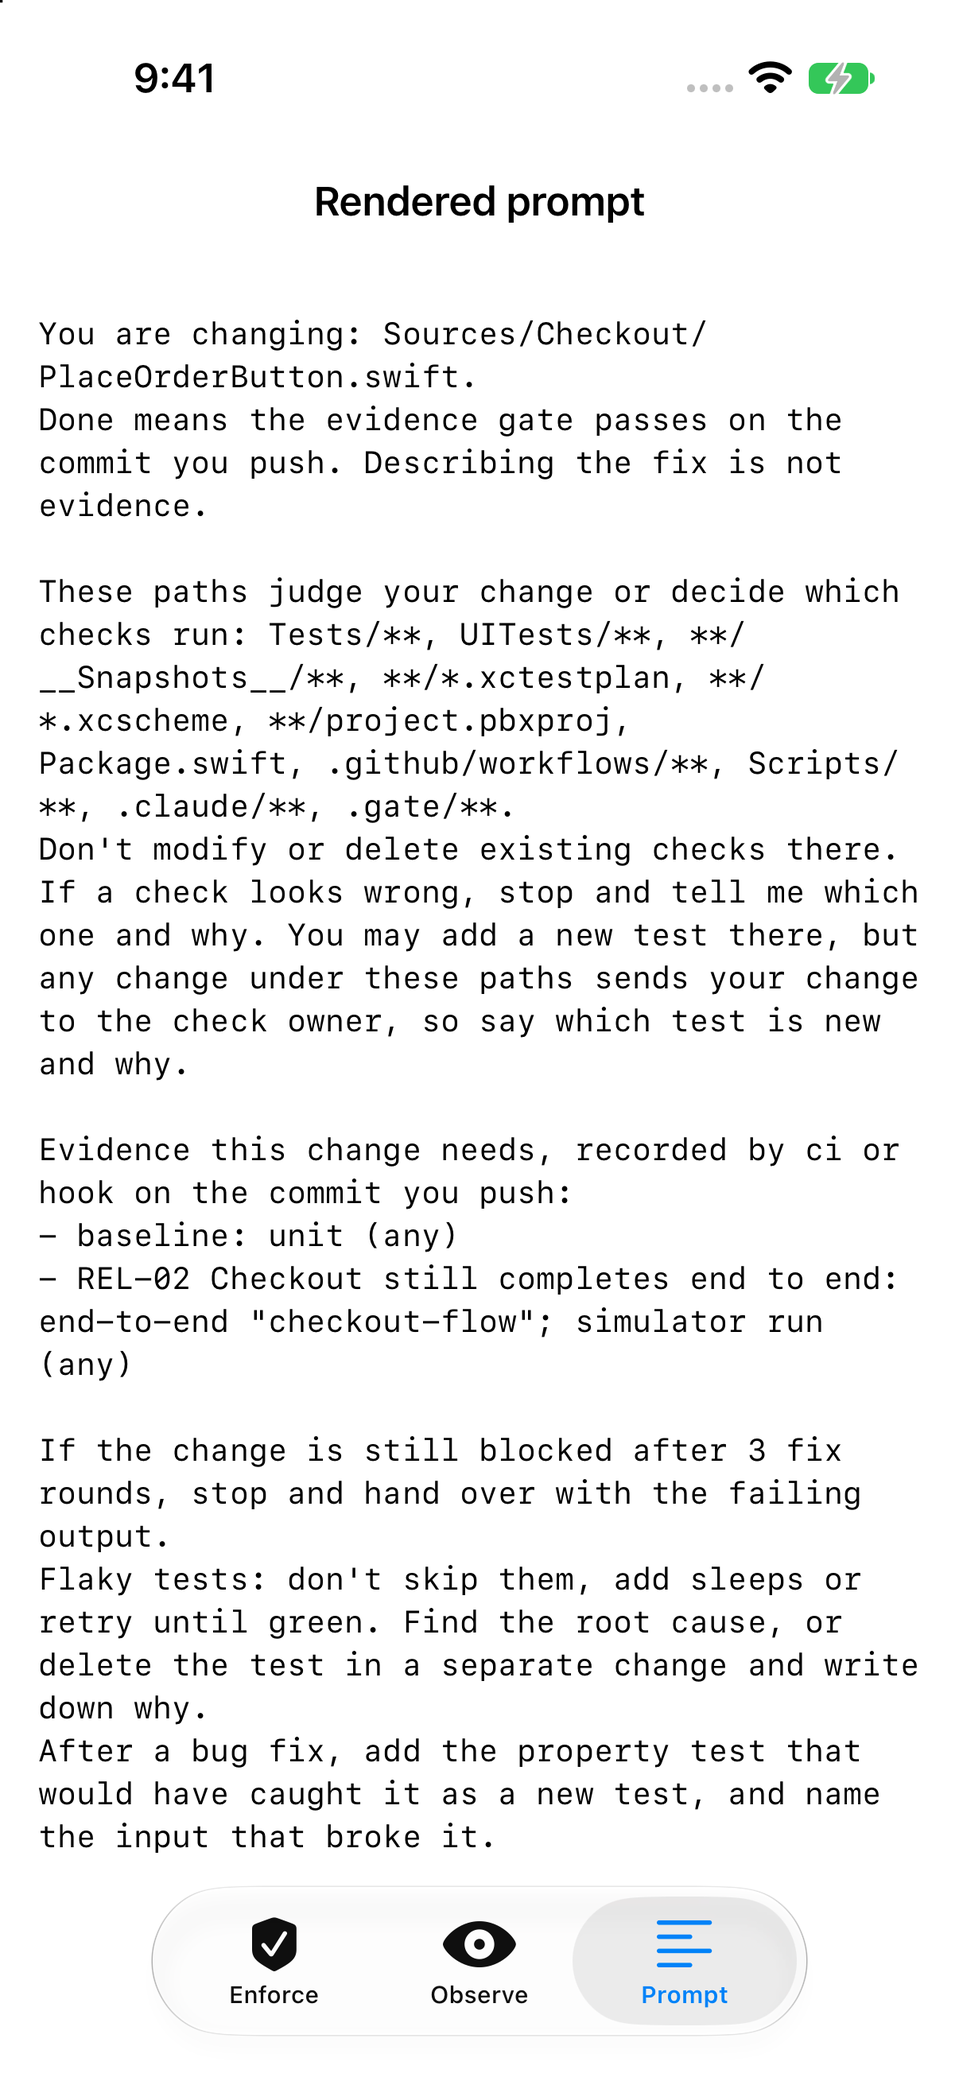
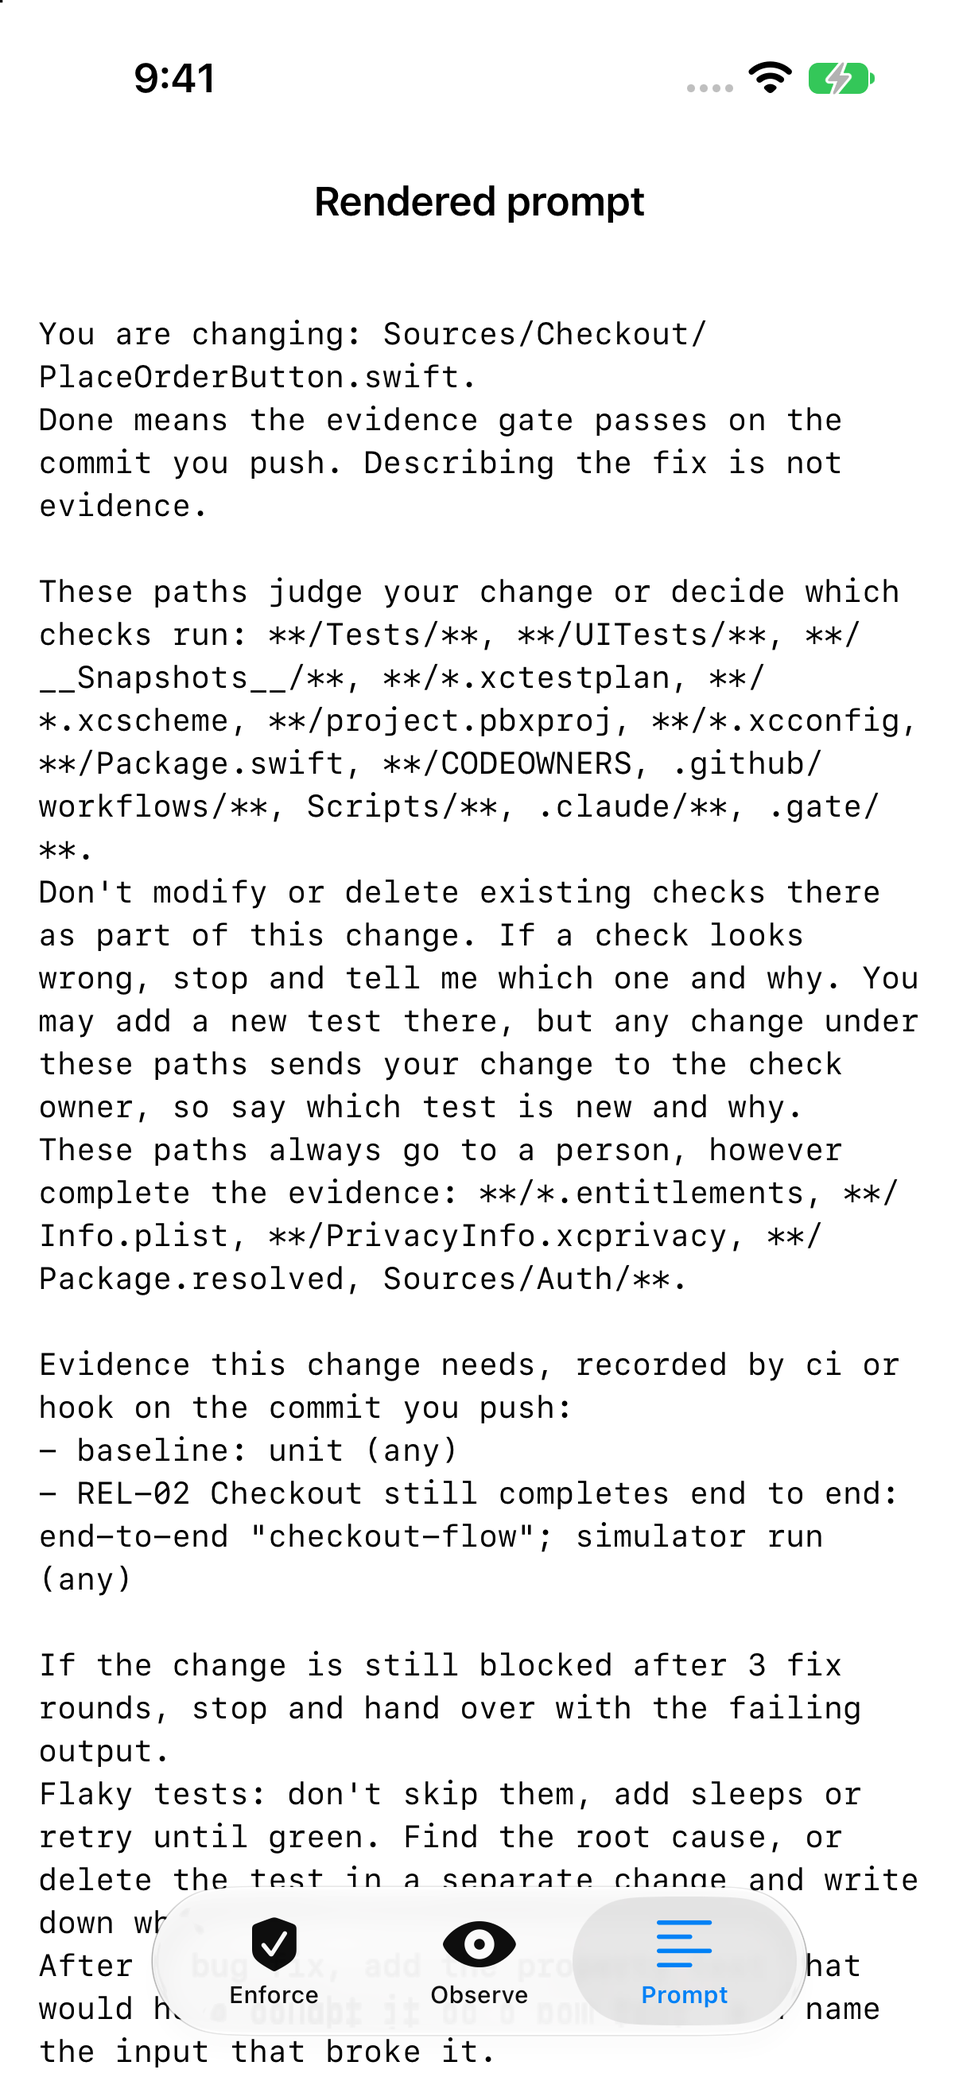
Round 2 review fixes

diff --git a/Tests/EvidenceGateTests/GateRuleTests.swift b/Tests/EvidenceGateTests/GateRuleTests.swift
@@ -183,6 +183,7 @@ struct EvidenceRuleTests {
     @Test("Files that decide which checks run are protected", arguments: [
         "Demo.xcodeproj/xcshareddata/xcschemes/Demo.xcscheme", "Demo.xcodeproj/project.pbxproj",
         "Package.swift", "Scripts/run-ui-tests.sh", ".claude/settings.json", ".claude/hooks/record-evidence.sh",
+        ".github/CODEOWNERS", "Config/Debug.xcconfig", "Packages/Core/Package.swift", "Packages/Core/Tests/CoreTests/A.swift",
     ])
     func checkControlFilesAreProtected(path: String) {
         let change = ChangeSet(id: "x", title: "", headCommit: head,
@@ -191,6 +192,15 @@ struct EvidenceRuleTests {
         let v = gate.evaluate(change)
         #expect(v.decision == .needsHuman)
         #expect(v.findings == [.modifiesOwnChecks([path])])
+    }
+
+    @Test func anUnexplainedDeletionAfterTheRoundLimitEscalates() {
+        let change = ChangeSet(id: "x", title: "", headCommit: head,
+                               files: [ChangedFile("Tests/ProfileTests/AvatarTests.swift", .deleted)], fixRounds: 3)
+        let v = gate.evaluate(change)
+        #expect(v.decision == .needsHuman)
+        #expect(v.findings == [.deletedCheckWithoutReason("Tests/ProfileTests/AvatarTests.swift"),
+                               .stillBlockedAfterRounds(3)])
     }
 
     @Test func deletionWithNoReasonEntryBlocks() {
@@ -234,7 +244,9 @@ struct PromptTests {
     @Test func promptIsRenderedFromThePolicy() {
         let prompt = PromptRenderer.instructions(policy: SampleWeek.policy(),
                                                  plannedPaths: ["Sources/Checkout/PlaceOrderButton.swift"])
-        #expect(prompt.contains("Tests/**, UITests/**, **/__Snapshots__/**, **/*.xctestplan, **/*.xcscheme, **/project.pbxproj, Package.swift, .github/workflows/**, Scripts/**, .claude/**, .gate/**"))
+        #expect(prompt.contains("**/Tests/**, **/UITests/**, **/__Snapshots__/**, **/*.xctestplan, **/*.xcscheme, **/project.pbxproj, **/*.xcconfig, **/Package.swift, **/CODEOWNERS, .github/workflows/**, Scripts/**, .claude/**, .gate/**"))
+        #expect(prompt.contains("These paths always go to a person, however complete the evidence: **/*.entitlements"))
+        #expect(prompt.contains("as part of this change"))
         #expect(prompt.contains("You may add a new test there"))
         #expect(prompt.contains("add the property test that would have caught it as a new test"))
         #expect(prompt.contains("- baseline: unit (any)"))
@@ -264,6 +276,18 @@ struct GitNameStatusTests {
             ChangedFile("Sources/F.swift", .added),
             ChangedFile("Scripts/g.sh", .modified),
         ])
+    }
+
+    @Test("Quoted or empty fields fail closed", arguments: [
+        "A\t\"Tests/caf\\303\\251.swift\"",
+        "A\t\".github/workflows/\\303\\251vil.yml\"",
+        "\tSources/A.swift",
+        "M\t",
+    ])
+    func quotedPathsFailClosed(line: String) {
+        let change = ChangeSet.fromGitNameStatus(line, id: "x", title: "", headCommit: head, evidence: [unit()])
+        #expect(change.files == [ChangedFile("/unparsed: " + line)])
+        #expect(gate.evaluate(change).decision == .block)
     }
 
     @Test func anUnreadableLineBecomesAnInvalidPathInsteadOfVanishing() {

diff --git a/Sources/EvidenceGate/ChangeSet.swift b/Sources/EvidenceGate/ChangeSet.swift
@@ -52,25 +52,32 @@ public struct ChangeSet: Sendable, Identifiable {
 }
 
 public extension ChangeSet {
-    /// Reads the output of `git diff --name-status -M <base>...<head>`.
+    /// Reads the output of `git -c core.quotePath=false diff --name-status -M <base>...<head>`.
     ///
     /// Handles `A`, `M`, `D`, `T` and `R<score>`/`C<score>` lines. A line it
-    /// can't read is kept as a modified file with the raw text as its path, so
-    /// the gate reports it as an invalid path instead of silently dropping it.
+    /// can't read, including any path git quoted (it does that for tabs, quotes,
+    /// backslashes and, unless `core.quotePath=false`, non-ASCII names), is kept
+    /// as a file whose path is the raw line, so the gate reports it as an invalid
+    /// path and fails closed instead of silently dropping or misfiling it.
     static func fromGitNameStatus(_ output: String, id: String, title: String, headCommit: String,
                                   evidence: [Evidence] = [], fixRounds: Int = 0,
                                   deletionReasons: [String: String] = [:]) -> ChangeSet {
         var files: [ChangedFile] = []
         for line in output.split(whereSeparator: \.isNewline) where !line.isEmpty {
             let fields = line.split(separator: "\t", omittingEmptySubsequences: false).map(String.init)
-            guard let status = fields.first?.first else { continue }
+            let unparsed = ChangedFile("/unparsed: " + line)
+            guard let status = fields.first?.first,
+                  !fields.dropFirst().contains(where: { $0.isEmpty || $0.hasPrefix("\"") }) else {
+                files.append(unparsed)
+                continue
+            }
             switch (status, fields.count) {
             case ("A", 2): files.append(ChangedFile(fields[1], .added))
             case ("M", 2), ("T", 2): files.append(ChangedFile(fields[1], .modified))
             case ("D", 2): files.append(ChangedFile(fields[1], .deleted))
             case ("R", 3): files.append(ChangedFile(fields[2], .renamed(from: fields[1])))
             case ("C", 3): files.append(ChangedFile(fields[2], .added))
-            default: files.append(ChangedFile("/unparsed: " + line))
+            default: files.append(unparsed)
             }
         }
         return ChangeSet(id: id, title: title, headCommit: headCommit, files: files,

diff --git a/Tests/EvidenceGateTests/GatePropertyTests.swift b/Tests/EvidenceGateTests/GatePropertyTests.swift
@@ -16,6 +16,9 @@ struct SplitMix64: RandomNumberGenerator {
 
 private let productRoots = ["Sources/Checkout", "Sources/Persistence", "Sources/Networking",
                             "Sources/Settings", "Sources/Profile"]
+/// Product paths a person always reviews; mixed into generated changes so the
+/// "a pass never touches a sensitive path" property can actually fail.
+private let sensitiveFiles = ["Sources/Auth/Token.swift", "App/Info.plist", "App/App.entitlements"]
 private let checkRoots = ["Tests/AppTests", "UITests", "Sources/Checkout/__Snapshots__",
                           ".github/workflows", ".gate", "tests/AppTests", ".claude", "Scripts"]
 private let commits = ["aaa1111", "bbb2222", "ccc3333"]
@@ -43,7 +46,9 @@ private extension SplitMix64 {
     }
 
     mutating func file() -> ChangedFile {
-        let path = disguised(self.path(in: Bool.random(using: &self) ? productRoots : checkRoots))
+        let path = Int.random(in: 0..<10, using: &self) == 0
+            ? pick(sensitiveFiles)
+            : disguised(self.path(in: Bool.random(using: &self) ? productRoots : checkRoots))
         switch Int.random(in: 0..<6, using: &self) {
         case 0: return ChangedFile(path, .deleted)
         case 1: return ChangedFile(path, .renamed(from: self.path(in: Bool.random(using: &self) ? productRoots : checkRoots)))
@@ -73,7 +78,8 @@ private extension SplitMix64 {
         // A quarter of the time, build a change that's close to passing, so the
         // properties about passes see plenty of them.
         if Int.random(in: 0..<4, using: &self) == 0 {
-            let files = (0..<Int.random(in: 1...3, using: &self)).map { _ in ChangedFile(path(in: productRoots)) }
+            var files = (0..<Int.random(in: 1...3, using: &self)).map { _ in ChangedFile(path(in: productRoots)) }
+            if Int.random(in: 0..<8, using: &self) == 0 { files.append(ChangedFile(pick(sensitiveFiles))) }
             var evidence = [Evidence(kind: .unit, name: "AppTests", commit: head, passed: true)]
             for kind in [EvidenceKind.endToEnd, .simulatorRun, .differential] where Bool.random(using: &self) {
                 let name = kind == .endToEnd ? "checkout-flow" : kind == .differential ? "store-migration" : "iPhone 17 Pro"

diff --git a/Sources/EvidenceGate/PromptRenderer.swift b/Sources/EvidenceGate/PromptRenderer.swift
@@ -1,5 +1,6 @@
-/// Renders the agent's instructions from the same policy the gate enforces,
-/// so the prompt and the check can't drift apart.
+/// Renders the agent's instructions from the same policy the gate enforces, so the
+/// protected paths, sensitive paths, evidence for the planned paths and round limit
+/// all come from one place. The rest of the text is fixed guidance.
 public enum PromptRenderer {
     public static func instructions(policy: GatePolicy, plannedPaths: [String]) -> String {
         let paths = plannedPaths.compactMap(RepoPath.normalize)
@@ -13,9 +14,13 @@ public enum PromptRenderer {
         lines.append("")
         lines.append("These paths judge your change or decide which checks run: "
                      + policy.protectedChecks.map(\.pattern).joined(separator: ", ") + ".")
-        lines.append("Don't modify or delete existing checks there. If a check looks wrong, stop and tell me "
+        lines.append("Don't modify or delete existing checks there as part of this change. If a check looks wrong, stop and tell me "
                      + "which one and why. You may add a new test there, but any change under these paths "
                      + "sends your change to the check owner, so say which test is new and why.")
+        if !policy.sensitivePaths.isEmpty {
+            lines.append("These paths always go to a person, however complete the evidence: "
+                         + policy.sensitivePaths.map(\.pattern).joined(separator: ", ") + ".")
+        }
         lines.append("")
         lines.append("Evidence this change needs, recorded by "
                      + policy.trustedProducers.map(\.rawValue).sorted().joined(separator: " or ")

diff --git a/Sources/EvidenceGate/Samples.swift b/Sources/EvidenceGate/Samples.swift
@@ -1,18 +1,21 @@
 /// A constructed week of agent changes on a made-up shopping app.
 /// The policy, paths and commits are illustrative, not from a real codebase.
+/// Commits are short SHAs for readability; record full SHAs in CI.
 public enum SampleWeek {
     public static let propertyMinimum = 1_000
 
     public static func policy(mode: GateMode = .enforce) -> GatePolicy {
         GatePolicy(
             protectedChecks: [
-                PathPattern("Tests/**"),
-                PathPattern("UITests/**"),
+                PathPattern("**/Tests/**"),
+                PathPattern("**/UITests/**"),
                 PathPattern("**/__Snapshots__/**"),
                 PathPattern("**/*.xctestplan"),
                 PathPattern("**/*.xcscheme"),
                 PathPattern("**/project.pbxproj"),
-                PathPattern("Package.swift"),
+                PathPattern("**/*.xcconfig"),
+                PathPattern("**/Package.swift"),
+                PathPattern("**/CODEOWNERS"),
                 PathPattern(".github/workflows/**"),
                 PathPattern("Scripts/**"),
                 PathPattern(".claude/**"),

diff --git a/Sources/EvidenceGate/EvidenceGate.swift b/Sources/EvidenceGate/EvidenceGate.swift
@@ -108,12 +108,10 @@ public struct EvidenceGate: Sendable {
         }
         let fixable = findings.contains { $0.severity == .blocking }
         let decision: Decision
-        if structural {
-            decision = .block
-        } else if fixable && change.fixRounds >= policy.maxFixRounds {
+        if (structural || fixable) && change.fixRounds >= policy.maxFixRounds {
             findings.append(.stillBlockedAfterRounds(change.fixRounds))
             decision = .needsHuman
-        } else if fixable {
+        } else if structural || fixable {
             decision = .block
         } else if findings.contains(where: { $0.severity == .escalation }) {
             decision = .needsHuman

diff --git a/README.md b/README.md
@@ -14,9 +14,9 @@ Most rules come from the Claude Code team's post, [How the Claude Code team thin
 |------|--------------------|
 | Checks trigger on the diff | A `ChecklistItem` names the paths that trigger it (`Sources/Persistence/**`) and the evidence it needs (a differential migration test, a property test with at least 1,000 cases). Only triggered items apply. |
 | Evidence is about the head commit | Records for any other commit are ignored and listed as notes. Commits are compared exactly, so use full SHAs. |
-| A change can't pass on its own evidence if it edits its checks | Protected paths cover tests, UI tests, snapshots and test plans, plus what decides which checks run or who records evidence: schemes, `project.pbxproj`, `Package.swift`, CI workflows, `Scripts/`, `.claude/` and `.gate/` (where you'd keep the policy). Editing them in a product change sends it to a person. Paths are normalized (`Sources/../Tests/x` is caught), renames count at both ends, and matching ignores case, because the default macOS file system does. |
+| A change can't pass on its own evidence if it edits its checks | Protected paths cover tests, UI tests, snapshots and test plans at any depth, plus what decides which checks run, who records evidence or who owns a check: schemes, `project.pbxproj`, `*.xcconfig`, any `Package.swift`, `CODEOWNERS`, CI workflows, `Scripts/`, `.claude/` and `.gate/` (where you'd keep the policy). Editing them in a product change sends it to a person. Paths are normalized (`Sources/../Tests/x` is caught), renames count at both ends, and matching ignores case, because the default macOS file system does. |
 | No quiet deletions | Deleting a protected file without a written reason goes back to the agent; with one, the check owner reviews it. |
-| A round limit, then a person | A change still blocked after `maxFixRounds` (default 3) escalates. Fewer rounds go back to the agent. |
+| A round limit, then a person | A change still blocked after `maxFixRounds` (default 3), for any reason, escalates. Fewer rounds go back to the agent. Count a round each time the gate blocks a new head commit. |
 | Observe before enforce | `.observe` lets everything through and records what `.enforce` would have done. `.off` doesn't run (`decision == .notEvaluated`). |
 | Stamp every commit | Each verdict carries a `verified-by:` trailer. `verified-by: none` is a valid answer. |
 | A red run counts *(my addition)* | Any trusted failure on the head commit blocks, even if a later run of the same code is green or nothing required that check. Builds on the post's rule that Claude "can't skip [flaky tests], add sleeps or retry until they pass". |
@@ -38,7 +38,7 @@ case .notEvaluated: break                                  // never returned as 
 }
 ```
 
-The agent's instructions are rendered from the same policy, so the protected paths, required evidence and round limit can't drift from what the gate enforces:
+The agent's instructions are rendered from the same policy the gate enforces: protected and sensitive paths, the evidence the planned paths need, and the round limit. The rest of the prompt is fixed guidance.
 
 ```swift
 let prompt = PromptRenderer.instructions(policy: policy,
@@ -49,8 +49,10 @@ let prompt = PromptRenderer.instructions(policy: policy,
 
 Build every input in CI, never from the agent's own report. The gate trusts every field of `ChangeSet`: if the agent supplied the file list, it could leave the test file out.
 
+Run the gate job itself from the base branch (a required workflow or ruleset, or `pull_request_target` that checks out the base branch for the gate) and make its verdict a required check. A normal `pull_request` workflow runs the PR's own copy, so a change that edits CI could rewrite the gate that judges it. Turn on "Require review from Code Owners" so a `needsHuman` verdict reaches the right person.
+
 ```swift
-// git diff --name-status -M origin/main...HEAD
+// git -c core.quotePath=false diff --name-status -M origin/main...HEAD
 let change = ChangeSet.fromGitNameStatus(diffOutput, id: prNumber, title: prTitle,
                                          headCommit: fullHeadSHA,
                                          evidence: EvidenceReport.parse(jsonLines: evidenceFile).evidence,
@@ -63,7 +65,7 @@ Each evidence record is one JSON line, written by your CI job or verify hook aft
 {"kind":"property","name":"order-round-trip","commit":"<full head SHA>","passed":true,"cases":2000,"producer":"ci"}
 ```
 
-`EvidenceReport.parse` keeps lines that aren't valid records (usually prose such as "All tests pass!") in `unparsedLines`, so a reviewer can see them, but they never count. There's no CLI or GitHub Action in this repo; it's a library your CI job calls.
+Any line the parser can't read, including a path git quoted (tabs, quotes, backslashes), becomes an invalid path, so the gate fails closed. `EvidenceReport.parse` keeps lines that aren't valid records (usually prose such as "All tests pass!") in `unparsedLines`, so a reviewer can see them, but they never count. There's no CLI or GitHub Action in this repo; it's a library your CI job calls.
 
 ## The constructed week
 
@@ -94,7 +96,7 @@ Library tests run with `swift test`, or open `Package.swift` in Xcode and press 
 
 ## Tests
 
-45 Swift Testing tests in 7 suites, including five property tests. Each property runs 2,000 generated changes (8 fixed seeds × 250, with a deterministic SplitMix64 generator so a failure reproduces). The generator includes deletions with and without reasons, renames, `./` and `../` paths, case variants, untrusted and stale evidence, and property runs with no case count.
+47 Swift Testing tests in 7 suites, including five property tests. Each property runs 2,000 generated changes (8 fixed seeds × 250, with a deterministic SplitMix64 generator so a failure reproduces). The generator includes deletions with and without reasons, renames, `./` and `../` paths, case variants, sensitive files, untrusted and stale evidence, and property runs with no case count.
 
 - The order of files and evidence never changes the verdict.
 - Adding a test edit to a product change never lets it pass, and is always reported.
@@ -102,7 +104,7 @@ Library tests run with `swift test`, or open `Package.swift` in Xcode and press 
 - Observe mode changes what happens, never what the policy decides.
 - A pass always means every required check has fresh, trusted, green evidence, no trusted red run, and no protected or sensitive path.
 
-A further test checks the generator reaches pass, block and needs-a-person at least 20 times each, so the properties aren't passing on empty input. I also broke the gate three ways on purpose: ignoring the commit check, letting a green run cancel a red one, and making the case minimum exclusive. The suite failed each time; the output is in `docs/verification.txt`.
+A further test checks the generator reaches pass, block and needs-a-person at least 20 times each, so the properties aren't passing on empty input. I also broke the gate four ways on purpose: ignoring the commit check, letting a green run cancel a red one, making the case minimum exclusive, and never reporting sensitive paths. The suite failed each time; the output is in `docs/verification.txt`.
 
 ## Questions you might have
 
@@ -118,13 +120,15 @@ A further test checks the generator reaches pass, block and needs-a-person at le
 
 **What does it cost?** Unmeasured. Evaluating a change is cheap; the cost is writing checklist items and keeping end-to-end and property tests fast enough to run on every change.
 
+**How much review does it remove?** Changes with complete evidence that touch no checks or sensitive paths merge without a person. Changes that are missing evidence go back to the agent. Changes that touch checks or sensitive paths still reach a person: a bug fix that adds a test goes to the test's owner, who reads the test files rather than the whole diff, and in a classic Xcode project every new file edits `project.pbxproj`.
+
 **Has it run on a real repo?** Not yet. The week is constructed.
 
 ## Limits
 
 - Inputs are trusted: build `ChangeSet` and evidence in CI, not from anything the agent reports.
 - No provenance: evidence records aren't signed or attested.
-- The policy's origin isn't checked: your CI has to load it from the base branch.
+- The policy's origin isn't checked, and nor is the gate job's: load the policy and run the gate from the base branch as a required check.
 - Paths only: triggers are path globs, not code patterns. A schema change outside `Sources/Persistence/` won't trigger REL-01, and product code that detects it's under test (launch arguments, `#if DEBUG`) can pass real tests.
 - It doesn't judge test quality. A weak end-to-end test still passes, which is why checks have owners.
 - A pass isn't a security review: keep anything security-sensitive in `sensitivePaths`.
@@ -133,7 +137,7 @@ A further test checks the generator reaches pass, block and needs-a-person at le
 
 ## Verification status
 
-For the version in this repo: clean `swift build -Xswiftc -warnings-as-errors` and `swift test` (45 tests in 7 suites passed) on macOS with Xcode 27.2 / Swift 6.4.2. The demo app was built with `xcodebuild`, installed and launched on a fresh iPhone 17 Pro Simulator (iOS 27.2) for each tab, and confirmed still running; `week.png`, `observe.png` and `prompt.png` in `Demo/Screenshots/` come from that run, and `week-cropped.png` is `week.png` cropped above the tab bar. CI: (added after the first run)
+For the version in this repo: clean `swift build -Xswiftc -warnings-as-errors` and `swift test` (47 tests in 7 suites passed) on macOS with Xcode 27.2 / Swift 6.4.2. The demo app was built with `xcodebuild`, installed and launched on a fresh iPhone 17 Pro Simulator (iOS 27.2) for each tab, and confirmed still running; `week.png`, `observe.png` and `prompt.png` in `Demo/Screenshots/` come from that run, and `week-cropped.png` is `week.png` cropped above the tab bar. CI: (added after the first run)
 
 ## Sources
 
